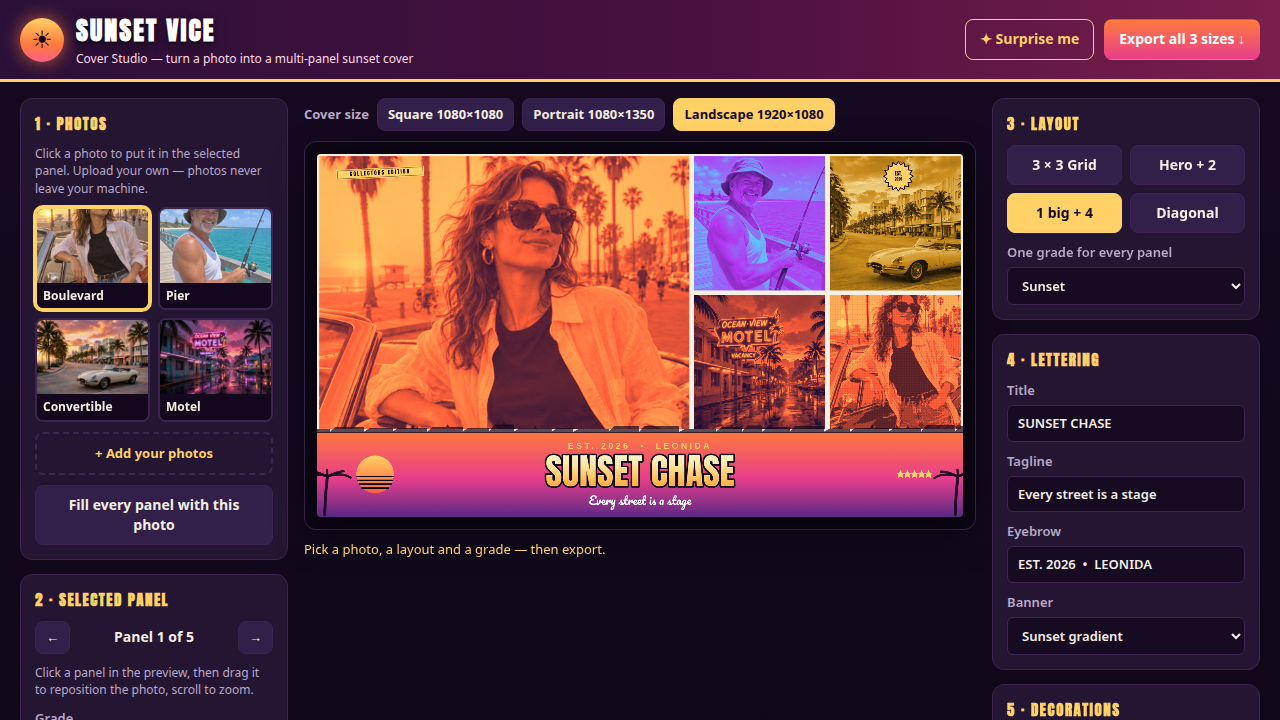
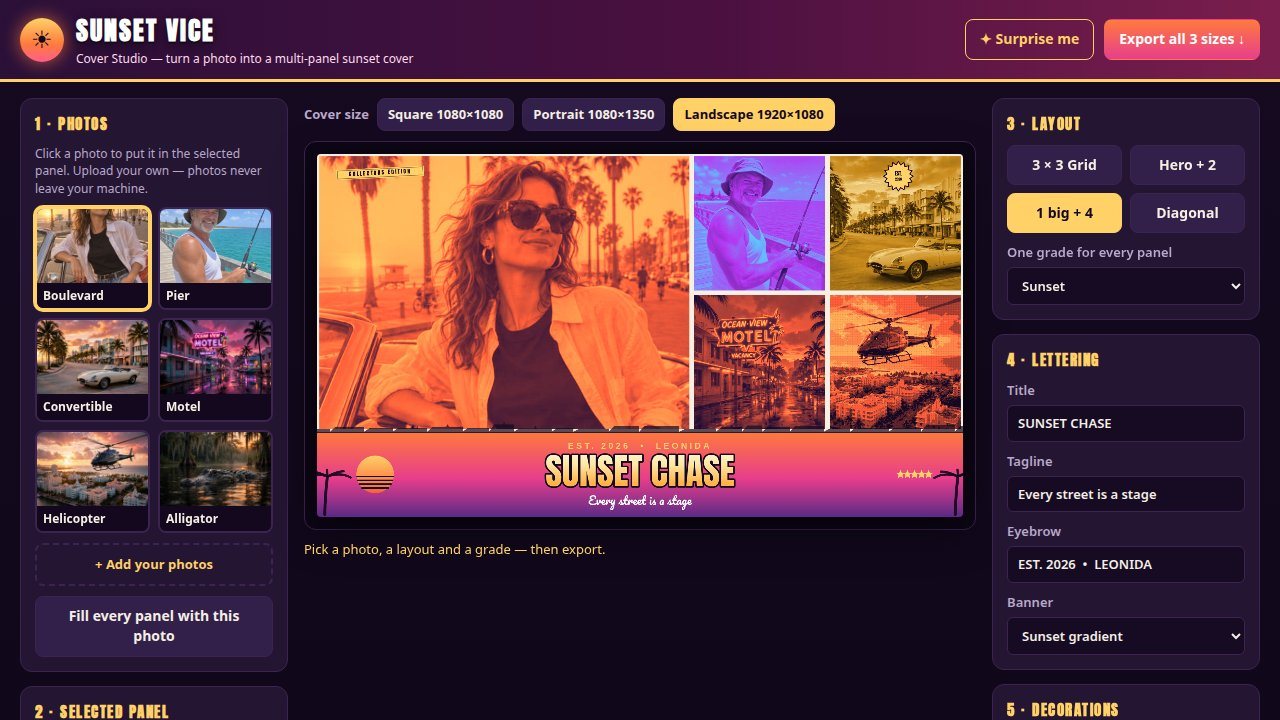
Fix duplicate photo: add helicopter + alligator samples (6 total)
Cover 1 (hero4) repeated the boulevard photo in panel 5; panel 5 is now
the new helicopter shot (halftone). Default state fixed the same way.
Cover 2 (3x3) re-laid out over 6 photos: no two adjacent panels share a
photo, repeats use different grades. Screenshots re-shot and eye-checked.

diff --git a/app/src/shots.js b/app/src/shots.js
@@ -15,7 +15,7 @@ const SHOTS = {
         defaultPanel(1, 'neon'),
         defaultPanel(2, 'gold'),
         defaultPanel(3, 'sunset'),
-        defaultPanel(0, 'halftone'),
+        { ...defaultPanel(4, 'halftone'), cx: 0.68, cy: 0.32 },
       ],
     },
   },
@@ -29,7 +29,7 @@ const SHOTS = {
         defaultPanel(1, 'neon'),
         defaultPanel(2, 'gold'),
         defaultPanel(3, 'sunset'),
-        defaultPanel(0, 'halftone'),
+        { ...defaultPanel(4, 'halftone'), cx: 0.68, cy: 0.32 },
       ],
     },
   },
@@ -39,9 +39,9 @@ const SHOTS = {
       layout: 'grid33', title: 'NEON SHORES', tagline: 'One city. No rules.',
       eyebrow: 'VOL. 06  •  PALM DISTRICT', banner: 'navy',
       panels: [
-        defaultPanel(1, 'neon'), { ...defaultPanel(0, 'neon'), cy: 0.32 }, defaultPanel(3, 'neon'),
-        { ...defaultPanel(2, 'neon'), cy: 0.6 }, defaultPanel(1, 'sunset'), { ...defaultPanel(0, 'neon'), cy: 0.32 },
-        defaultPanel(3, 'gold'), { ...defaultPanel(2, 'neon'), cy: 0.6 }, defaultPanel(1, 'neon'),
+        defaultPanel(1, 'neon'), { ...defaultPanel(0, 'neon'), cy: 0.32 }, { ...defaultPanel(4, 'neon'), cx: 0.68, cy: 0.32 },
+        { ...defaultPanel(2, 'gold'), cy: 0.6 }, { ...defaultPanel(5, 'sunset'), cy: 0.58 }, defaultPanel(3, 'neon'),
+        { ...defaultPanel(0, 'gold'), cy: 0.32 }, defaultPanel(1, 'sunset'), { ...defaultPanel(2, 'neon'), cy: 0.6 },
       ],
     },
   },

diff --git a/app/src/main.js b/app/src/main.js
@@ -287,17 +287,21 @@ async function boot() {
       document.fonts.ready,
     ]);
   } catch (e) { /* fall back to system fonts */ }
-  const [b, p, c, m] = await Promise.all([
+  const [b, p, c, m, h, a] = await Promise.all([
     loadImage('samples/boulevard.jpg'),
     loadImage('samples/pier.jpg'),
     loadImage('samples/convertible.jpg'),
     loadImage('samples/motel.jpg'),
+    loadImage('samples/helicopter.jpg'),
+    loadImage('samples/alligator.jpg'),
   ]);
   photos = [
     { img: b, name: 'Boulevard' },
     { img: p, name: 'Pier' },
     { img: c, name: 'Convertible' },
     { img: m, name: 'Motel' },
+    { img: h, name: 'Helicopter' },
+    { img: a, name: 'Alligator' },
   ];
   buildTray();
   preview.width = ASPECTS[aspect].w;

diff --git a/app/src/render.js b/app/src/render.js
@@ -72,7 +72,7 @@ export function defaultState() {
       defaultPanel(1, 'neon'),
       defaultPanel(2, 'gold'),
       defaultPanel(3, 'sunset'),
-      defaultPanel(0, 'halftone'),
+      { ...defaultPanel(4, 'halftone'), cx: 0.68, cy: 0.32 },
     ],
   };
 }

diff --git a/README.md b/README.md
@@ -20,7 +20,7 @@ caption into multi-panel Vice City sunset cover art, exported as PNG.
   "EST. 2026" starburst badge, "COLLECTORS EDITION" tape, five stars.
 - **Export**: 1080×1080, 1080×1350, 1920×1080 — one click each, or all three.
 - **"Surprise me"** randomizes layout, grade and caption.
-- 4 sample photos ship with the app (2 kit samples + 2 AI-made); your own
+- 6 sample photos ship with the app (2 kit samples + 4 AI-made); your own
   photos are read on your machine and never uploaded.
 
 ## Run it
